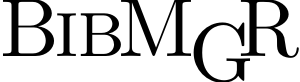
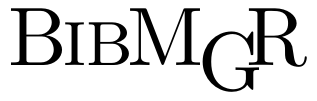
feat: update BibMgR branding

Changed region(s): [[0.0, 0.0, 1.0, 1.0]]

diff --git a/frontend/src/style.css b/frontend/src/style.css
@@ -212,17 +212,18 @@ svg {
   display: flex;
   min-height: 64px;
   align-items: center;
-  gap: 11px;
+  gap: 10px;
 }
 
 .brand-mark {
-  width: 34px;
-  height: 34px;
+  width: 44px;
+  height: 44px;
   flex: 0 0 auto;
   filter: drop-shadow(0 2px 4px rgb(0 83 179 / 24%));
 }
 
 .brand-mark img {
+  display: block;
   width: 100%;
   height: 100%;
 }
@@ -235,20 +236,20 @@ svg {
 
 .brand-wordmark__glyph {
   display: block;
-  width: 78px;
-  aspect-ratio: 35.503057 / 10.026257;
+  width: 106px;
+  aspect-ratio: 37.921 / 12.022;
   background: currentColor;
   -webkit-mask: url("./assets/bibmgr-wordmark.svg") center / contain no-repeat;
   mask: url("./assets/bibmgr-wordmark.svg") center / contain no-repeat;
 }
 
 .brand-copy p {
-  margin: 4px 0 0;
+  margin: 1px 0 0;
   color: var(--color-text-secondary);
-  font-size: 11.5px;
+  font-size: 9px;
   font-weight: 450;
-  letter-spacing: 0.005em;
-  line-height: 1.2;
+  letter-spacing: 0.02em;
+  line-height: 1.15;
 }
 
 .theme-switcher {
@@ -2816,6 +2817,15 @@ pre {
     min-height: 58px;
   }
 
+  .brand-mark {
+    width: 40px;
+    height: 40px;
+  }
+
+  .brand-wordmark__glyph {
+    width: 96px;
+  }
+
   .app-main {
     padding-block: 12px 16px;
   }
@@ -3000,6 +3010,15 @@ pre {
 @media (max-width: 420px) {
   .app-shell {
     padding-inline: 10px;
+  }
+
+  .brand-mark {
+    width: 36px;
+    height: 36px;
+  }
+
+  .brand-wordmark__glyph {
+    width: 82px;
   }
 
   .brand-copy p {

diff --git a/frontend/src/App.vue b/frontend/src/App.vue
@@ -192,7 +192,7 @@ async function changePage(direction: -1 | 1) {
     <header class="app-header">
       <div class="app-shell app-header__inner">
         <div class="brand-mark" aria-hidden="true">
-          <img src="/favicon.svg" alt="" width="34" height="34" />
+          <img src="/favicon.svg" alt="" width="44" height="44" />
         </div>
         <div class="brand-copy">
           <h1 class="brand-wordmark" aria-label="BibMgR">

diff --git a/frontend/src/assets/bibmgr-wordmark.tex b/frontend/src/assets/bibmgr-wordmark.tex
@@ -1,4 +1,4 @@
-\documentclass[border=0pt]{standalone}
+\documentclass[border=1pt]{standalone}
 
 \newcommand{\BibMgR}{%
   {\rmfamily

diff --git a/README.md b/README.md
@@ -1,4 +1,4 @@
-# bibmgr
+# ![BibMgR Logo](docs/assets/bibmgr-logo.png)
 
 ## 環境構築
 
